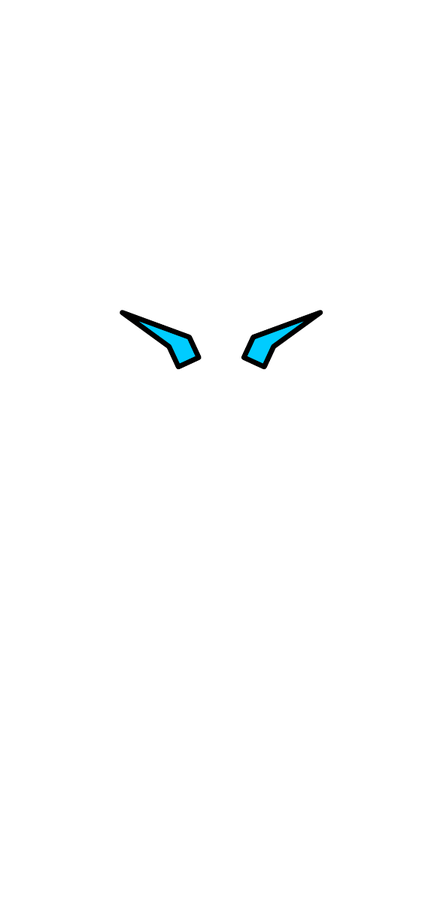
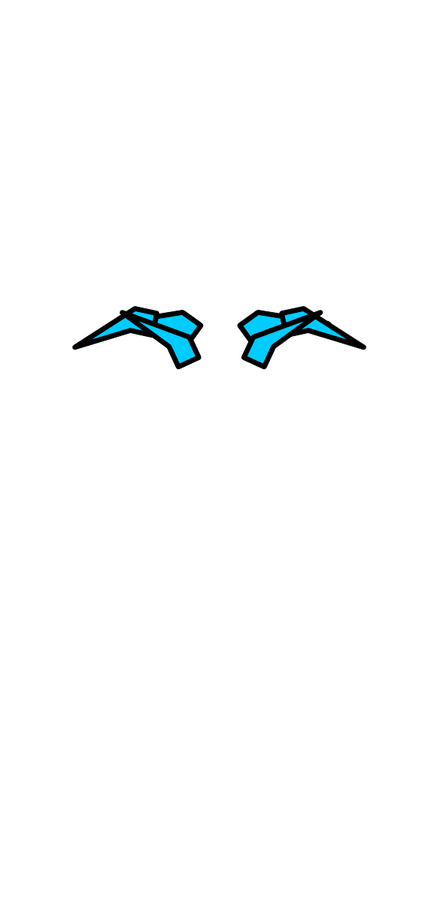
Add Illustrator sublayer export workflow

Changed region(s): [[0.5247, 0.3385, 0.8161, 0.4], [0.1749, 0.3385, 0.4664, 0.4]]

diff --git a/tools/export_illustrator_sublayers.jsx b/tools/export_illustrator_sublayers.jsx
@@ -1,0 +1,201 @@
+#target illustrator
+
+(function () {
+    var CANVAS_WIDTH = 446;
+    var CANVAS_HEIGHT = 910;
+    var scriptFile = new File($.fileName);
+    var repoFolder = scriptFile.parent.parent;
+    var sourceFile = new File(repoFolder.fsName + "/Pikita V4.ai");
+    var outputFolder = new Folder(repoFolder.fsName + "/assets/rig/sublayers");
+    var oldInteractionLevel = app.userInteractionLevel;
+    var workingCopy = new File(Folder.temp.fsName + "/pikita-export-" + (new Date().getTime()) + ".ai");
+    var doc = null;
+    var allLayers = [];
+    var exportEntries = [];
+    var bounds = [Number.POSITIVE_INFINITY, Number.NEGATIVE_INFINITY,
+                  Number.NEGATIVE_INFINITY, Number.POSITIVE_INFINITY];
+
+    function ensureFolder(folder) {
+        if (folder.exists) return;
+        if (!folder.create()) throw new Error("Could not create folder: " + folder.fsName);
+    }
+
+    function jsonString(value) {
+        return "\"" + String(value).replace(/\\/g, "\\\\").replace(/\"/g, "\\\"")
+            .replace(/\r/g, "\\r").replace(/\n/g, "\\n") + "\"";
+    }
+
+    function slug(value, fallback) {
+        var text = String(value);
+        if (text == "><") return "base";
+        text = text.toLowerCase().replace(/[^a-z0-9]+/g, "_").replace(/^_+|_+$/g, "");
+        return text.length ? text : fallback;
+    }
+
+    function addLayers(layers, parentPath) {
+        for (var i = 0; i < layers.length; i++) {
+            var layer = layers[i];
+            var path = parentPath.concat([layer.name]);
+            var record = { layer: layer, path: path, visible: layer.visible };
+            allLayers.push(record);
+            addLayers(layer.layers, path);
+        }
+    }
+
+    function findRecord(layer) {
+        for (var i = 0; i < allLayers.length; i++) {
+            if (allLayers[i].layer == layer) return allLayers[i];
+        }
+        return null;
+    }
+
+    function layerIsUnder(itemLayer, targetLayer) {
+        var current = itemLayer;
+        while (current && current.typename == "Layer") {
+            if (current == targetLayer) return true;
+            current = current.parent;
+        }
+        return false;
+    }
+
+    function itemLayer(item) {
+        var current = item;
+        while (current && current.typename != "Layer") current = current.parent;
+        return current;
+    }
+
+    function layerAndParentsWereVisible(layer) {
+        var current = layer;
+        while (current && current.typename == "Layer") {
+            var record = findRecord(current);
+            if (!record || !record.visible) return false;
+            current = current.parent;
+        }
+        return true;
+    }
+
+    function includeItem(item) {
+        try {
+            if (item.hidden) return false;
+        } catch (e) {}
+        var owner = itemLayer(item);
+        return owner && layerAndParentsWereVisible(owner);
+    }
+
+    function measureContent() {
+        for (var i = 0; i < doc.pageItems.length; i++) {
+            var item = doc.pageItems[i];
+            if (!includeItem(item)) continue;
+            var itemBounds;
+            try { itemBounds = item.visibleBounds; } catch (e) { continue; }
+            if (!itemBounds || itemBounds.length < 4) continue;
+            bounds[0] = Math.min(bounds[0], itemBounds[0]);
+            bounds[1] = Math.max(bounds[1], itemBounds[1]);
+            bounds[2] = Math.max(bounds[2], itemBounds[2]);
+            bounds[3] = Math.min(bounds[3], itemBounds[3]);
+        }
+        if (!isFinite(bounds[0]) || !isFinite(bounds[1]) || !isFinite(bounds[2]) || !isFinite(bounds[3])) {
+            throw new Error("No visible artwork was found in the Illustrator document.");
+        }
+    }
+
+    function visitVisibleLayers(layers, path, callback) {
+        for (var i = 0; i < layers.length; i++) {
+            var layer = layers[i];
+            var record = findRecord(layer);
+            if (!record || !record.visible) continue;
+            var nextPath = path.concat([layer.name]);
+            callback(layer, nextPath);
+            visitVisibleLayers(layer.layers, nextPath, callback);
+        }
+    }
+
+    function isolate(target) {
+        for (var i = 0; i < allLayers.length; i++) {
+            var record = allLayers[i];
+            record.layer.visible = record.visible && layerIsUnder(target, record.layer) ||
+                record.visible && layerIsUnder(record.layer, target);
+        }
+    }
+
+    function outputPathFor(path) {
+        var segments = [];
+        for (var i = 0; i < path.length; i++) segments.push(slug(path[i], "layer_" + i));
+        var name = segments.pop() + ".png";
+        var folder = outputFolder;
+        for (var j = 0; j < segments.length; j++) {
+            folder = new Folder(folder.fsName + "/" + segments[j]);
+            ensureFolder(folder);
+        }
+        return { file: new File(folder.fsName + "/" + name), relative: segments.concat([name]).join("/") };
+    }
+
+    function exportLayer(layer, path) {
+        isolate(layer);
+        var output = outputPathFor(path);
+        var options = new ExportOptionsPNG24();
+        options.antiAliasing = true;
+        options.transparency = true;
+        options.artBoardClipping = true;
+        options.horizontalScale = (CANVAS_WIDTH / (bounds[2] - bounds[0])) * 100;
+        options.verticalScale = (CANVAS_HEIGHT / (bounds[1] - bounds[3])) * 100;
+        doc.exportFile(output.file, ExportType.PNG24, options);
+
+        exportEntries.push({
+            path: path,
+            file: output.relative,
+            visible: true
+        });
+    }
+
+    function writeManifest() {
+        var file = new File(outputFolder.fsName + "/manifest.json");
+        file.encoding = "UTF-8";
+        if (!file.open("w")) throw new Error("Could not write manifest: " + file.fsName);
+        file.write("{\n  \"source_file\": " + jsonString(sourceFile.name) + ",\n");
+        file.write("  \"canvas_size\": [" + CANVAS_WIDTH + ", " + CANVAS_HEIGHT + "],\n");
+        file.write("  \"content_bounds_points\": [" + bounds.join(", ") + "],\n");
+        file.write("  \"exports\": [\n");
+        for (var i = 0; i < exportEntries.length; i++) {
+            var entry = exportEntries[i];
+            file.write("    {\"path\": [");
+            for (var j = 0; j < entry.path.length; j++) {
+                if (j) file.write(", ");
+                file.write(jsonString(entry.path[j]));
+            }
+            file.write("], \"file\": " + jsonString(entry.file) + "}");
+            file.write(i + 1 == exportEntries.length ? "\n" : ",\n");
+        }
+        file.write("  ]\n}\n");
+        file.close();
+    }
+
+    try {
+        if (!sourceFile.exists) throw new Error("Source Illustrator file not found: " + sourceFile.fsName);
+        ensureFolder(outputFolder);
+        if (!sourceFile.copy(workingCopy.fsName)) throw new Error("Could not create a temporary Illustrator copy.");
+
+        app.userInteractionLevel = UserInteractionLevel.DONTDISPLAYALERTS;
+        doc = app.open(workingCopy);
+        addLayers(doc.layers, []);
+        measureContent();
+
+        var artboard = doc.artboards.add(bounds);
+        doc.artboards.setActiveArtboardIndex(doc.artboards.length - 1);
+        visitVisibleLayers(doc.layers, [], function (layer, path) {
+            exportLayer(layer, path);
+        });
+
+        writeManifest();
+        doc.close(SaveOptions.DONOTSAVECHANGES);
+        doc = null;
+        workingCopy.remove();
+        app.userInteractionLevel = oldInteractionLevel;
+        alert("Exported " + exportEntries.length + " visible Illustrator layers and sublayers to:\n" + outputFolder.fsName);
+    } catch (error) {
+        try { if (doc) doc.close(SaveOptions.DONOTSAVECHANGES); } catch (closeError) {}
+        try { if (workingCopy.exists) workingCopy.remove(); } catch (removeError) {}
+        app.userInteractionLevel = oldInteractionLevel;
+        alert("Illustrator layer export failed:\n" + error.message + (error.line ? "\nLine: " + error.line : ""));
+    }
+}());

diff --git a/tools/export_illustrator_assets.py b/tools/export_illustrator_assets.py
@@ -1,8 +1,10 @@
-"""Export the PDF-compatible Illustrator layers as aligned transparent PNGs.
+"""Export top-level PDF-compatible Illustrator layers as aligned PNGs.
 
 Requires pypdf, Pillow, NumPy, and Poppler's pdftoppm executable. The active
-Illustrator layer visibility is ignored: each named optional-content layer is
-rendered on its own against a temporary magenta matte.
+top-level Illustrator layer visibility is ignored: each PDF optional-content
+group is rendered on its own against a temporary magenta matte. Illustrator
+sublayers are not PDF optional-content groups and remain composited together;
+use export_illustrator_sublayers.jsx for those.
 """
 
 from __future__ import annotations
@@ -181,6 +183,9 @@ def main() -> None:
         "canvas_size": list(target_size),
         "source_file": source.name,
         "raster_dpi": args.dpi,
+        "source_crop_bounds": list(bounds),
+        "export_scope": "PDF optional-content groups (top-level Illustrator layers)",
+        "nested_sublayers": "Composited together; use export_illustrator_sublayers.jsx to export visible sublayers.",
         "source_layer_order_back_to_front": names,
         "layer_files": exported,
         "empty_layers": empty,

diff --git a/assets/rig/README.md b/assets/rig/README.md
@@ -1,8 +1,10 @@
 # Illustrator rig experiment
 
-`layers/` contains transparent, 446×910 exports of the named groups in the
+`layers/` contains transparent, 446×910 exports of the top-level groups in the
 PDF-compatible Illustrator file. All images use the same character-space canvas,
-so their pixels stay aligned when the renderer composes them.
+so their pixels stay aligned when the renderer composes them. The PDF view only
+exposes top-level groups; nested Illustrator sublayers such as eye-expression
+spares are composited together in these exports.
 
 The renderer assembles the body, hair, ears, arms, and feet from these parts. It
 uses the existing `assets/*.png` sprites for facial expressions, including the
@@ -10,8 +12,17 @@ cheek patches. The saved face visibility in the Illustrator document is not
 used to choose a base expression. Press **R** to switch between the assembled
 rig and the original full PNG sprite; the choice is saved in `settings.json`.
 
-To regenerate the layer exports, install `pypdf`, `Pillow`, and `NumPy`, then
-run `tools/export_illustrator_assets.py` with the local, ignored source file.
-The exporter also needs Poppler's `pdftoppm`; pass its path with `--pdftoppm`
-when it is not on `PATH`. It renders each Illustrator layer separately, so the
-source document's current visibility configuration does not affect the export.
+To regenerate the top-level exports, install `pypdf`, `Pillow`, and `NumPy`,
+then run `tools/export_illustrator_assets.py` with the local, ignored source
+file. The exporter also needs Poppler's `pdftoppm`; pass its path with
+`--pdftoppm` when it is not on `PATH`. It renders each PDF layer separately,
+so the Illustrator document's saved visibility configuration does not affect
+these top-level exports.
+
+To export visible nested layers separately, open the source file in Illustrator
+and choose **File → Scripts → Other Script**, then select
+`tools/export_illustrator_sublayers.jsx`. The script is designed to export
+each visible layer and sublayer to aligned 446×910 transparent PNGs under
+`assets/rig/sublayers/`, with a manifest of source layer paths. It opens a
+temporary copy and closes it without saving, so it does not change the source
+document. This Illustrator script has not yet been run in this session.
